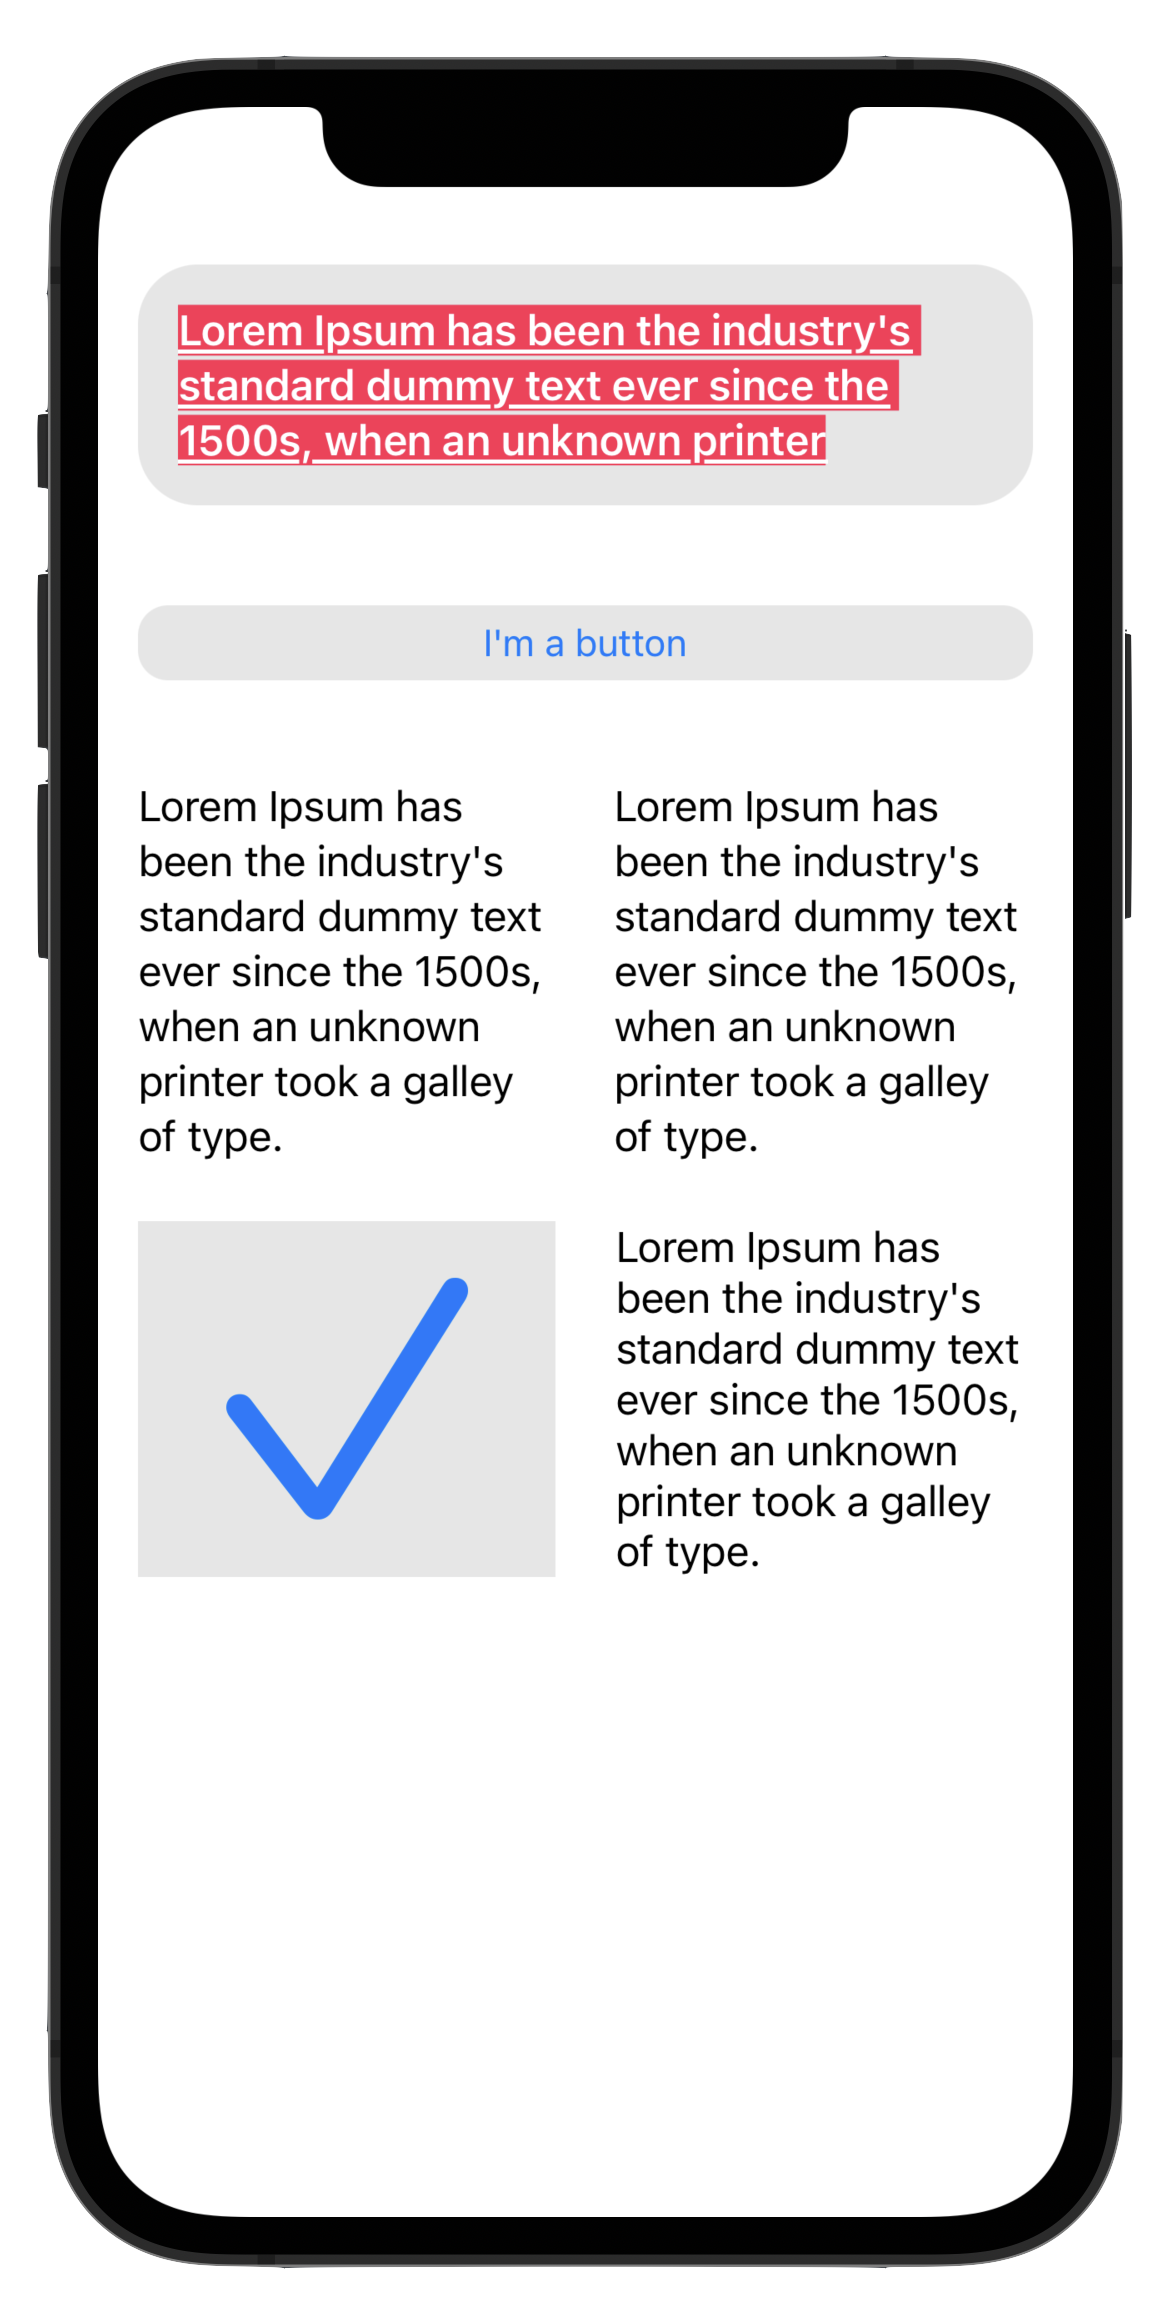
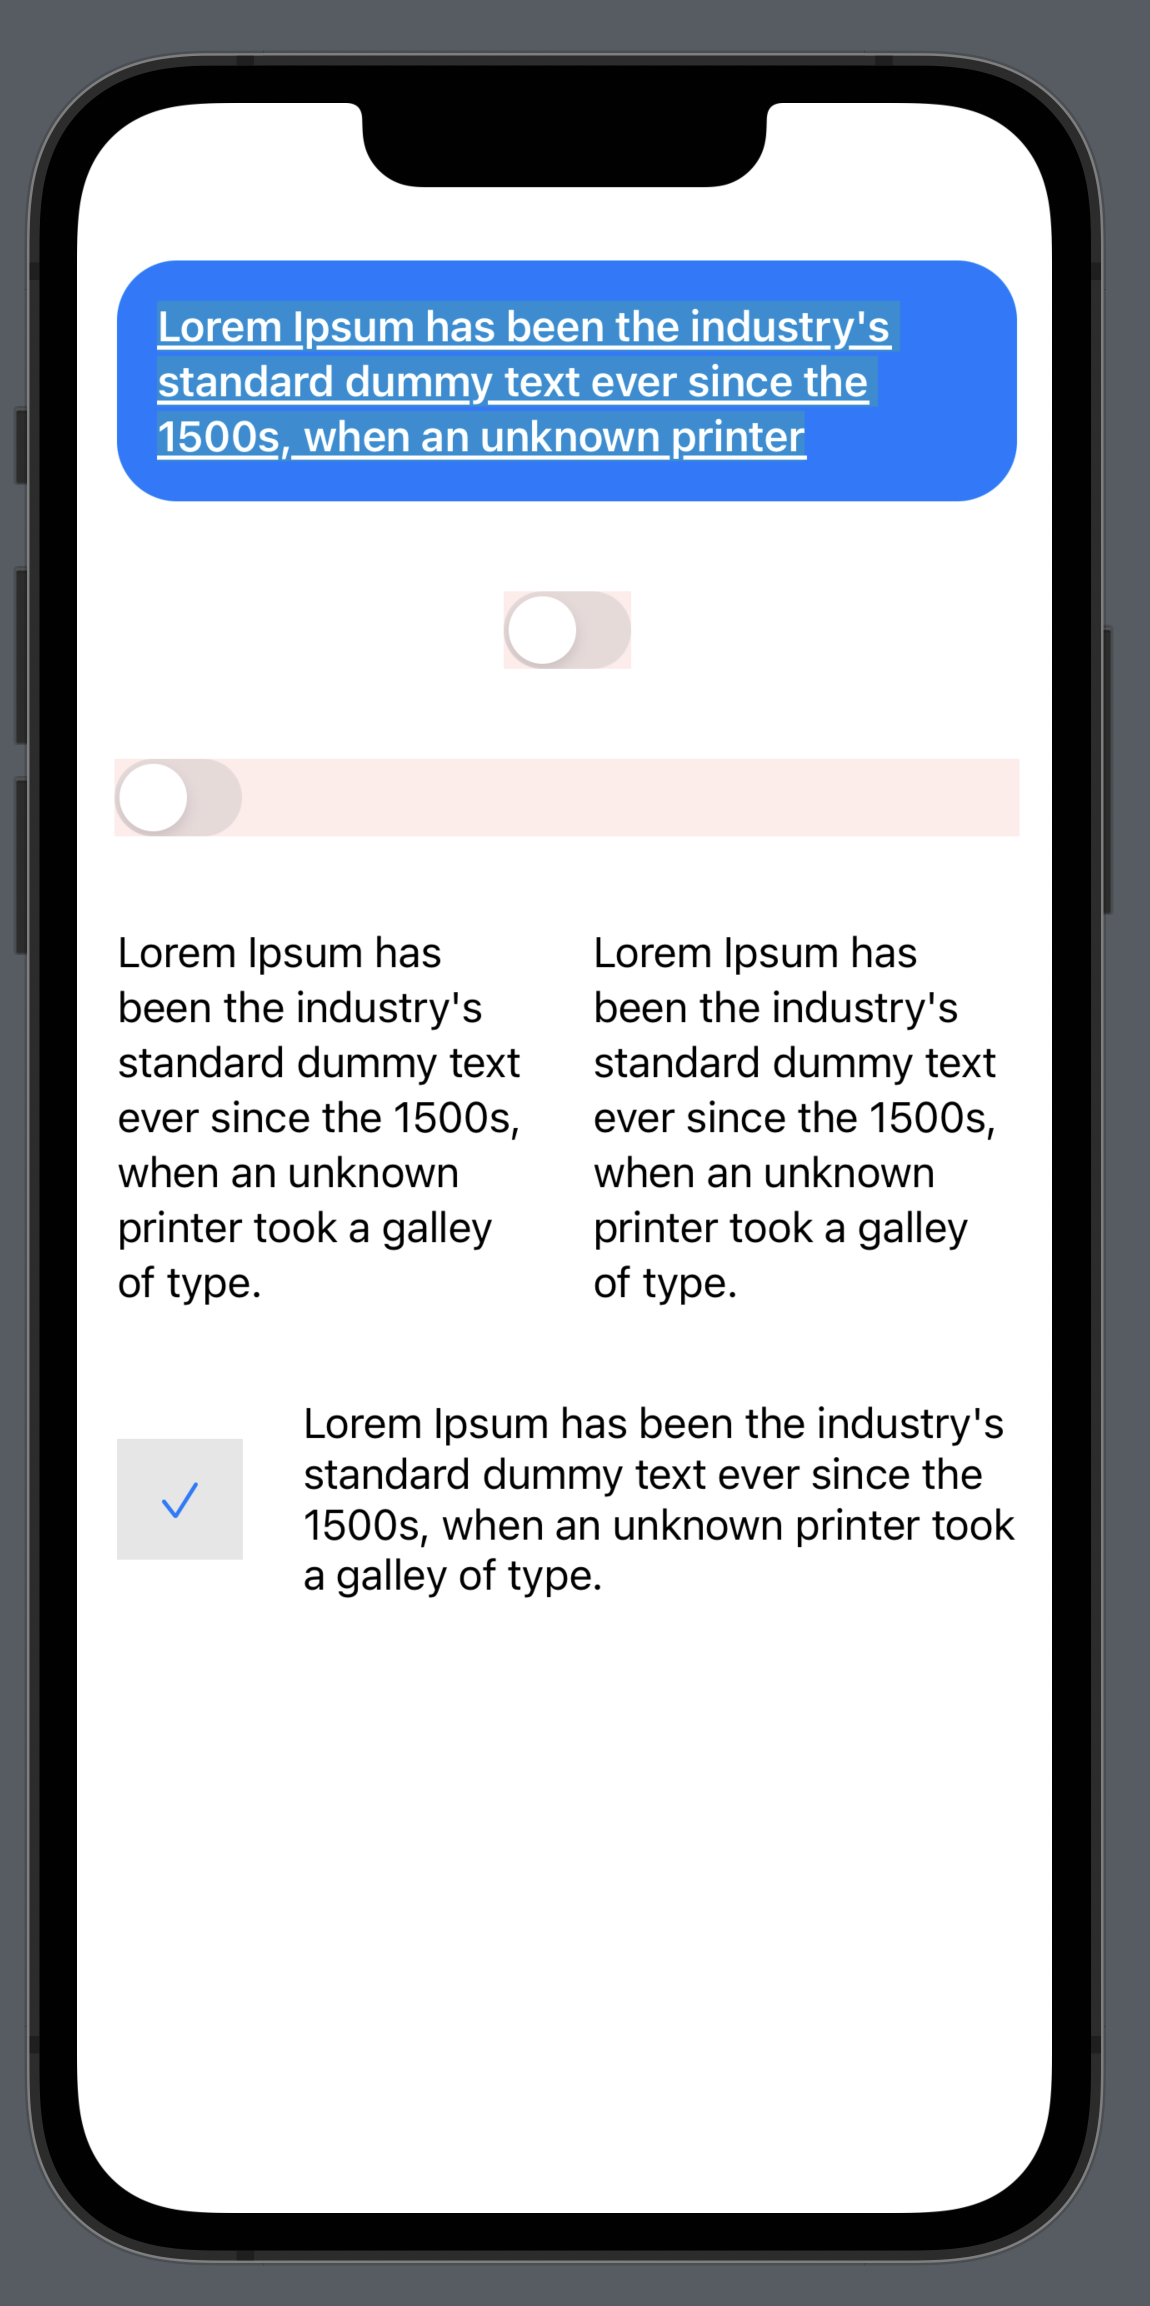
Improve documentation

diff --git a/Sources/UIKitView/UIKitView.swift b/Sources/UIKitView/UIKitView.swift
@@ -137,7 +137,7 @@ public struct UIKitView<UIViewType: UIView>: View {
 struct UIKitView_Previews: PreviewProvider {
     static var previews: some View {
         ScrollView {
-            VStack(alignment: .center) {
+            VStack(spacing: 36) {
                 UIKitView {
                     UILabel()
                 } then: {
@@ -149,23 +149,26 @@ struct UIKitView_Previews: PreviewProvider {
                             .underlineStyle: NSNumber(value: 1),
                             .font: UIFont.preferredFont(forTextStyle: .headline),
                             .foregroundColor: UIColor.systemBackground,
-                            .backgroundColor: UIColor.systemPink
+                            .backgroundColor: UIColor.systemGreen.withAlphaComponent(0.25)
                         ]
                     )
                 }
                 .padding()
-                .background(Color.primary.opacity(0.1))
+                .background(Color.accentColor)
                 .cornerRadius(24)
+                
+                UIKitView(traits: .fixedSize()) {
+                    UISwitch()
+                } then: {
+                    $0.backgroundColor = .systemRed.withAlphaComponent(0.1)
+                }
+                
                 
                 UIKitView {
                     UISwitch()
                 } then: {
-                    $0.backgroundColor = .label.withAlphaComponent(0.1)
-//                    $0.showsTouchWhenHighlighted = true
-//                    $0.setTitle("I'm a button", for: .normal)
+                    $0.backgroundColor = .systemRed.withAlphaComponent(0.1)
                 }
-//                .cornerRadius(12)
-//                .padding(.vertical)
                 
                 HStack(spacing: 24) {
                     // Body Text
@@ -183,13 +186,14 @@ struct UIKitView_Previews: PreviewProvider {
                 }
                 
                 HStack(spacing: 24) {
-                    UIKitView {
+                    UIKitView(traits: .flexible(layoutPriority: .fittingSizeLevel)) {
                         UIImageView(image: .init(systemName: "checkmark"))
                     } then: {
                         $0.contentMode = .scaleAspectFill
                     }
                     .padding()
                     .background(Color.primary.opacity(0.1))
+                    .aspectRatio(contentMode: .fill)
                     
                     // Should look exactly the same
                     UIKitView {

diff --git a/Sources/UIKitView/Traits.swift b/Sources/UIKitView/Traits.swift
@@ -31,18 +31,19 @@ extension UIKitView {
         
         /// Adapts the view to fit the available space.
         ///
-        /// This is the default system behavior.
-        public static func flexible(priority: UILayoutPriority = .init(950)) -> Self { .init(layoutPriority: priority) }
+        /// The default layout priority is (950), just short of required (1000) but way higher than defaultHigh (750). Play around with this value.
+        public static func flexible(layoutPriority: UILayoutPriority = .init(950)) -> Self { .init(layoutPriority: layoutPriority) }
         
         /// Fixes the view at its ideal size in the specified dimensions.
         ///
         /// The fixing of the axes can be optionally specified in one or both dimensions. For example, if you horizontally fix a text view before wrapping it in the frame view, you’re telling the text view to maintain its ideal width. The view calculates this to be the space needed to represent the entire string.
         ///
         /// This can result in the view exceeding the parent’s bounds, which may or may not be the effect you want.
-        public static func fixedSize(horizontal: Bool = true,
+        public static func fixedSize(layoutPriority: UILayoutPriority = .fittingSizeLevel,
+                                     horizontal: Bool = true,
                                      vertical: Bool = true) -> Self {
             .init(
-                layoutPriority: .fittingSizeLevel,
+                layoutPriority: layoutPriority,
                 isHorizontalSizeFixed: horizontal,
                 isVerticalSizeFixed: vertical)
         }

diff --git a/README.md b/README.md
@@ -10,8 +10,8 @@ Sample usage:
 
 ```swift
 var body: some View {
-        ScrollView {
-        VStack(spacing: 24) {
+    ScrollView {
+        VStack(spacing: 36) {
             UIKitView {
                 UILabel()
             } then: {
@@ -23,23 +23,26 @@ var body: some View {
                         .underlineStyle: NSNumber(value: 1),
                         .font: UIFont.preferredFont(forTextStyle: .headline),
                         .foregroundColor: UIColor.systemBackground,
-                        .backgroundColor: UIColor.systemPink
+                        .backgroundColor: UIColor.systemGreen.withAlphaComponent(0.25)
                     ]
                 )
             }
             .padding()
-            .background(Color.primary.opacity(0.1))
+            .background(Color.accentColor)
             .cornerRadius(24)
             
-            UIKitView {
-                UIButton(type: .roundedRect)
+            UIKitView(traits: .fixedSize()) {
+                UISwitch()
             } then: {
-                $0.backgroundColor = .label.withAlphaComponent(0.1)
-                $0.showsTouchWhenHighlighted = true
-                $0.setTitle("I'm a button", for: .normal)
+                $0.backgroundColor = .systemRed.withAlphaComponent(0.1)
             }
-            .cornerRadius(12)
-            .padding(.vertical)
+            
+            
+            UIKitView {
+                UISwitch()
+            } then: {
+                $0.backgroundColor = .systemRed.withAlphaComponent(0.1)
+            }
             
             HStack(spacing: 24) {
                 // Body Text
@@ -57,13 +60,14 @@ var body: some View {
             }
             
             HStack(spacing: 24) {
-                UIKitView {
+                UIKitView(traits: .flexible(layoutPriority: .fittingSizeLevel)) {
                     UIImageView(image: .init(systemName: "checkmark"))
                 } then: {
-                    $0.contentMode = .scaleAspectFit
+                    $0.contentMode = .scaleAspectFill
                 }
                 .padding()
                 .background(Color.primary.opacity(0.1))
+                .aspectRatio(contentMode: .fill)
                 
                 // Should look exactly the same
                 UIKitView {
